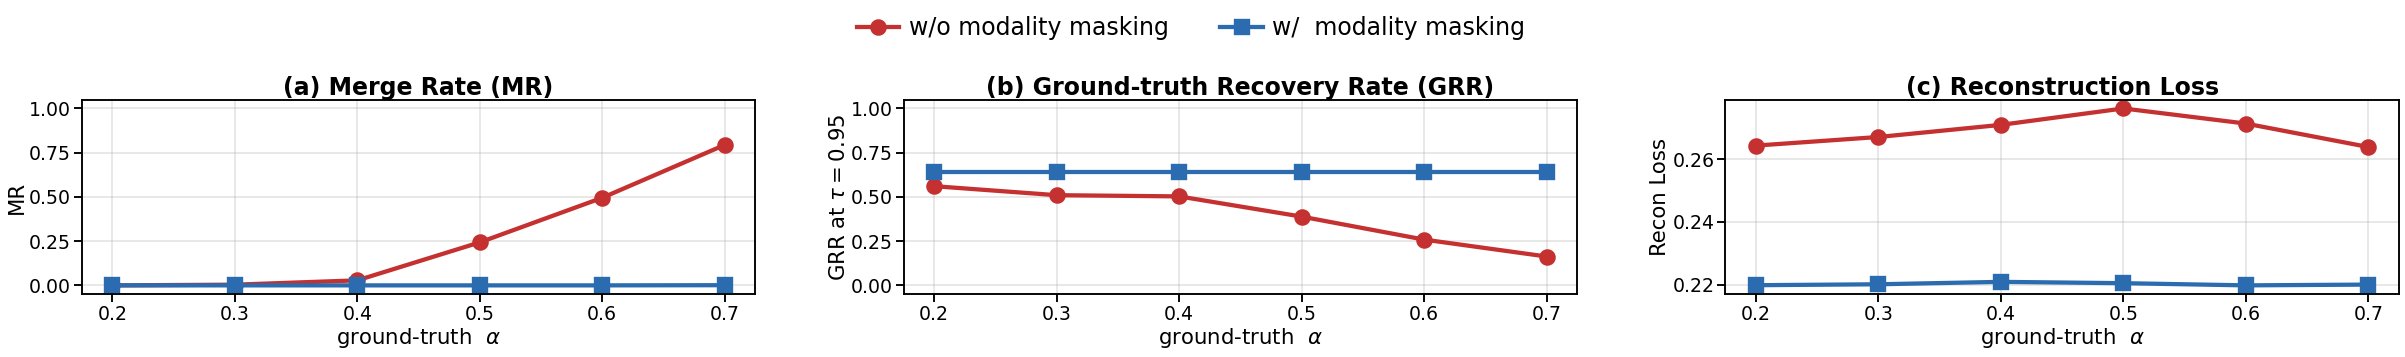
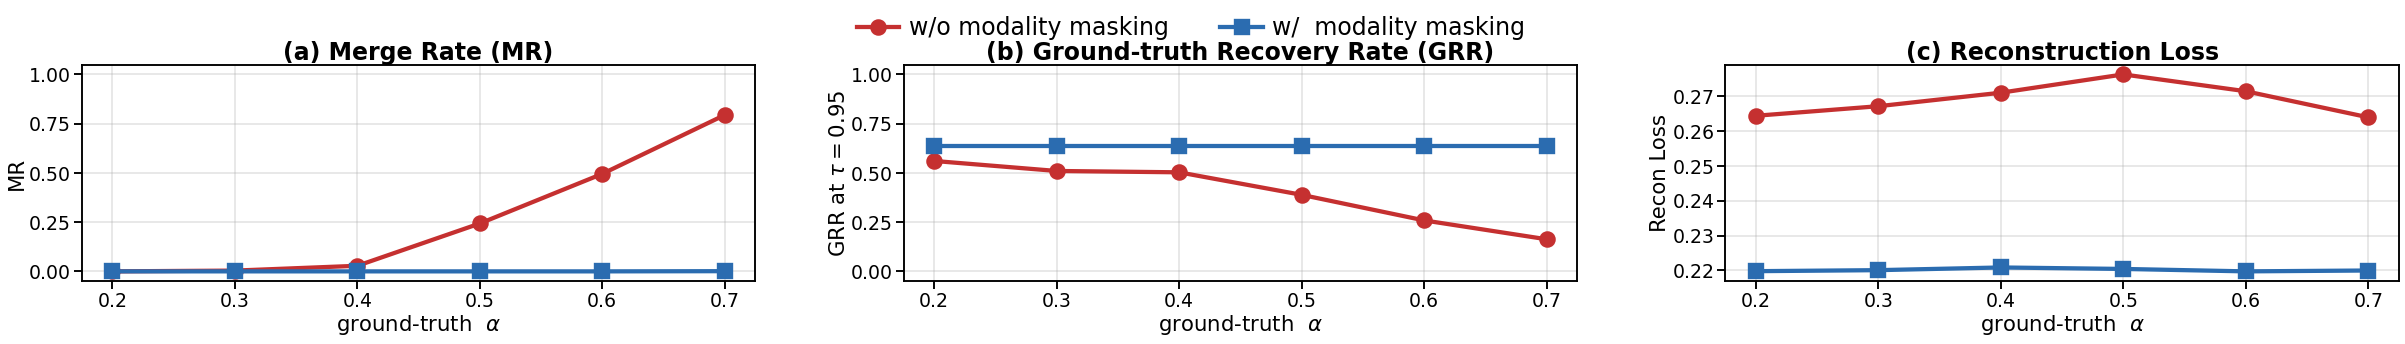
fig1: tighter legend, recon yticks at 0.01; add scripts/plot_fig1_three_panels.py

diff --git a/scripts/plot_fig1_three_panels.py b/scripts/plot_fig1_three_panels.py
@@ -1,0 +1,121 @@
+#!/usr/bin/env python3
+"""Plot Figure 1 (3-panel: MR, GRR(τ=0.95), Recon Loss).
+
+Compares w/o vs w/ modality masking (1R vs 2R) across α.
+
+Usage:
+    python scripts/plot_fig1_three_panels.py \
+        --result outputs/theorem2_followup_12/runs/<run_dir>/result.json \
+        --out    outputs/theorem2_followup_12/fig1_three_panels.png
+"""
+
+import argparse
+import glob
+import json
+from pathlib import Path
+
+import matplotlib
+matplotlib.use("Agg")
+import matplotlib.pyplot as plt
+from matplotlib.ticker import MultipleLocator
+
+
+# ---------------- style constants ----------------
+C_NO  = "#c53030"   # w/o modality masking (single decoder)
+C_YES = "#2b6cb0"   # w/  modality masking (two decoders)
+LBL_NO  = "w/o modality masking"
+LBL_YES = "w/  modality masking"
+
+PANELS = [
+    # (metric_key,                 ylabel,               title,                                    ylim,     yticks_step)
+    ("merged_fraction",            "MR",                  "(a) Merge Rate (MR)",                    (-0.05, 1.05), None),
+    ("img_mgt_shared_tau0.95",     r"GRR at $\tau=0.95$", "(b) Ground-truth Recovery Rate (GRR)",   (-0.05, 1.05), None),
+    ("avg_eval_loss",              "Recon Loss",          "(c) Reconstruction Loss",                None,          0.01),
+]
+
+
+def load_alphas(j, alphas_target):
+    SUB = [
+        (e["alpha_target"], e["aggregate"])
+        for e in j["sweep_results"]
+        if round(e["alpha_target"], 2) in alphas_target
+    ]
+    alphas = [a for a, _ in SUB]
+    def get(mk, metric):
+        return [ag.get(f"{mk}/{metric}_mean") for _, ag in SUB]
+    return alphas, get
+
+
+def make_fig1(json_path: str, out_path: str, alphas_target=(0.2, 0.3, 0.4, 0.5, 0.6, 0.7)):
+    j = json.load(open(json_path))
+    alphas, get = load_alphas(j, alphas_target)
+
+    fig, axes = plt.subplots(1, 3, figsize=(14.5, 2.16))
+    handles = []
+    for i, (ax, (metric, ylab, title, ylim, ystep)) in enumerate(zip(axes, PANELS)):
+        y_no  = get("single_recon", metric)
+        y_yes = get("two_recon",    metric)
+        h1, = ax.plot(alphas, y_no,  "-o", color=C_NO,  lw=1.8, ms=6, label=LBL_NO)
+        h2, = ax.plot(alphas, y_yes, "-s", color=C_YES, lw=1.8, ms=6, label=LBL_YES)
+        if i == 0:
+            handles = [h1, h2]
+        ax.set_xlabel(r"ground-truth  $\alpha$", fontsize=9, labelpad=1)
+        ax.set_ylabel(ylab, fontsize=9, labelpad=1)
+        ax.set_title(title, fontsize=10, fontweight="bold", pad=2)
+        ax.set_xticks(sorted(alphas_target))
+        ax.tick_params(axis="both", labelsize=8, pad=1)
+        if ylim is not None:
+            ax.set_ylim(*ylim)
+        if ystep is not None:
+            ax.yaxis.set_major_locator(MultipleLocator(ystep))
+        ax.grid(alpha=0.3)
+
+    fig.legend(
+        handles=handles, loc="upper center",
+        bbox_to_anchor=(0.5, 0.99),
+        ncol=2, frameon=False, fontsize=10,
+        handlelength=1.8, columnspacing=2.2, handletextpad=0.4,
+    )
+    plt.subplots_adjust(top=0.80, bottom=0.21, left=0.05, right=0.99, wspace=0.22)
+
+    Path(out_path).parent.mkdir(parents=True, exist_ok=True)
+    plt.savefig(out_path, dpi=170, bbox_inches="tight", facecolor="white", pad_inches=0.04)
+    print(f"saved {out_path}")
+    plt.close()
+
+
+def _resolve_result(arg: str) -> str:
+    """If arg looks like a glob with *, expand and pick the latest match."""
+    if "*" in arg:
+        matches = sorted(glob.glob(arg))
+        if not matches:
+            raise FileNotFoundError(f"no result.json matches {arg}")
+        return matches[-1]
+    return arg
+
+
+def main():
+    parser = argparse.ArgumentParser()
+    parser.add_argument(
+        "--result", type=str,
+        default="outputs/theorem2_followup_12/runs/*/result.json",
+        help="Path (or glob) to result.json",
+    )
+    parser.add_argument(
+        "--out", type=str,
+        default="outputs/theorem2_followup_12/fig1_three_panels.png",
+        help="Output PNG path",
+    )
+    parser.add_argument(
+        "--alphas", type=str, default="0.2,0.3,0.4,0.5,0.6,0.7",
+        help="Comma-separated α values to include",
+    )
+    args = parser.parse_args()
+
+    result_path = _resolve_result(args.result)
+    alphas = tuple(float(x) for x in args.alphas.split(",") if x.strip())
+    make_fig1(result_path, args.out, alphas_target=alphas)
+
+
+if __name__ == "__main__":
+    main()
